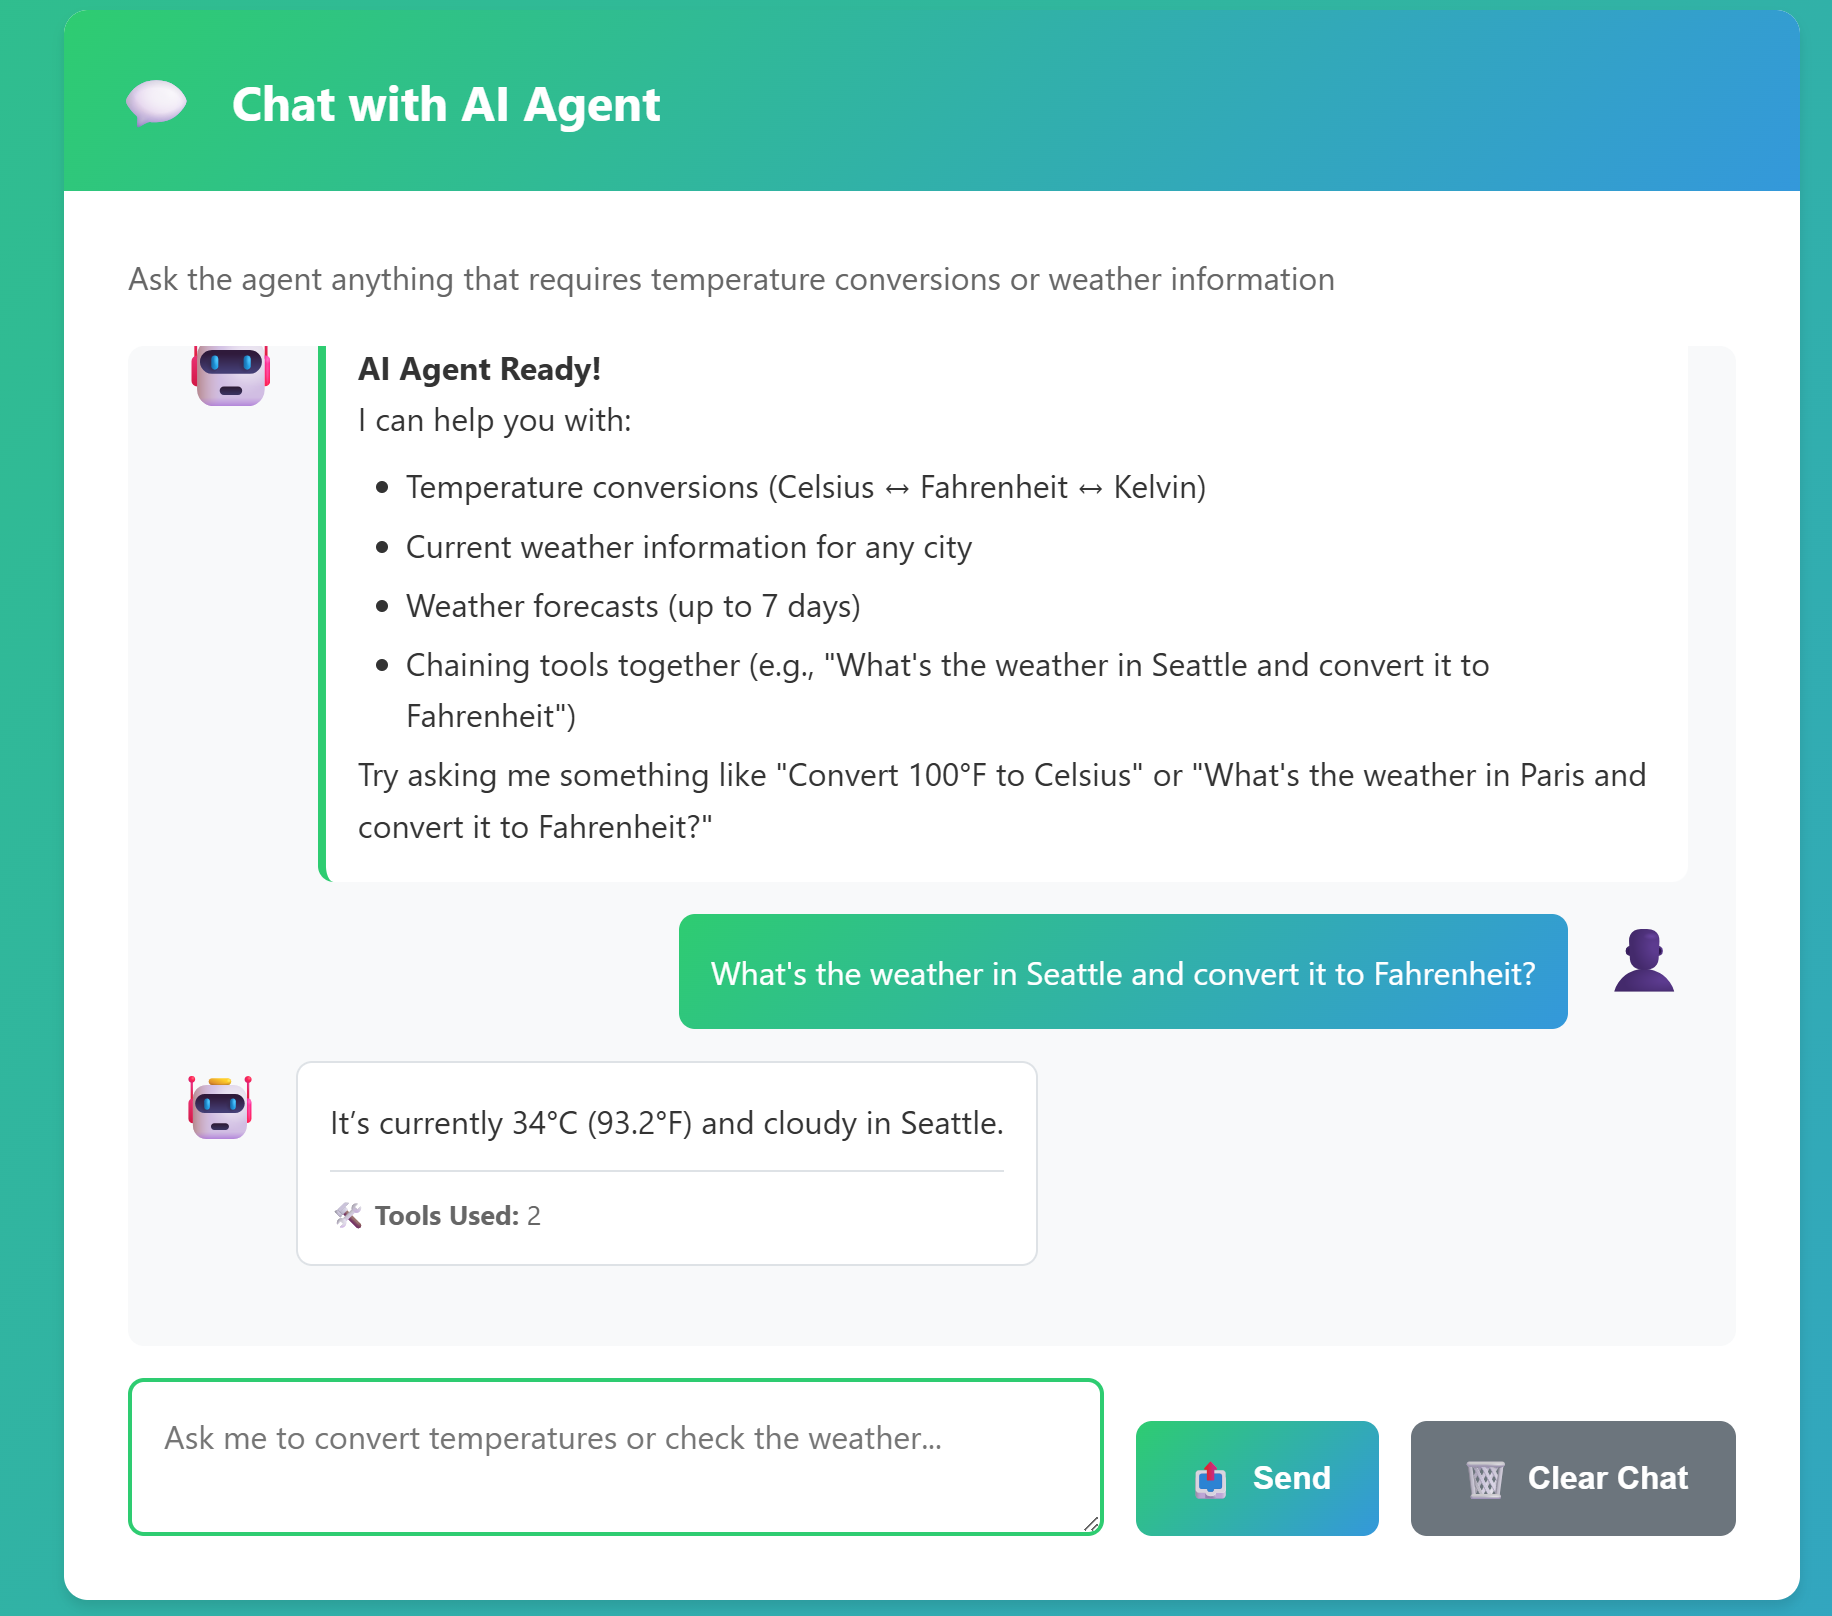
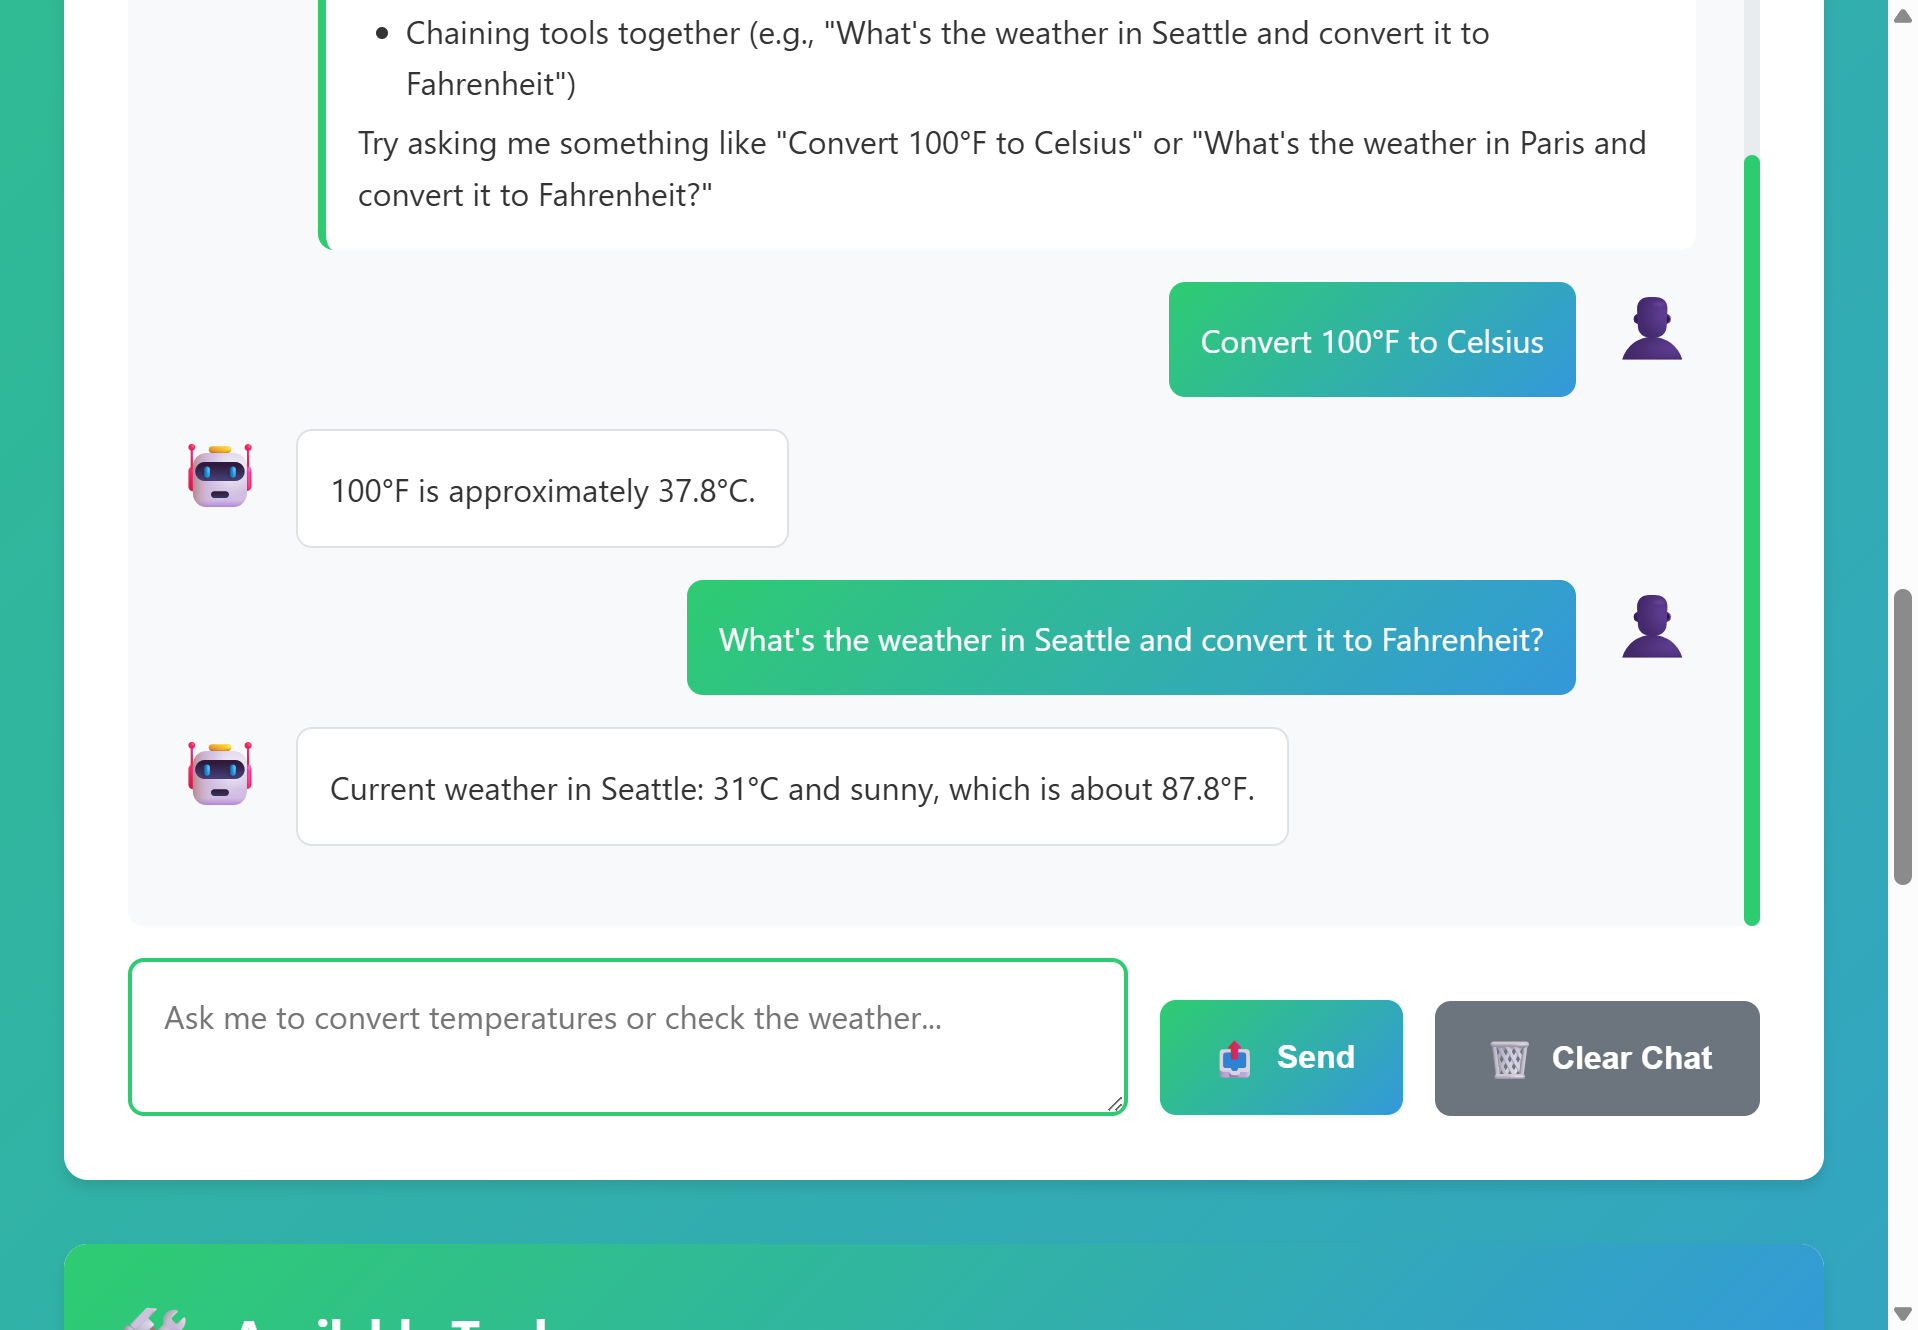
Update README.md to enhance clarity on multi-turn interactions and tool chaining; remove redundant images and descriptions. Update demo images for better representation.

diff --git a/04-tools/README.md b/04-tools/README.md
@@ -205,23 +205,13 @@ Start with a straightforward request: "Convert 100 degrees Fahrenheit to Celsius
 
 Now try something more complex: "What's the weather in Seattle and convert it to Fahrenheit?" Watch the agent work through this in steps. It first gets the weather (which returns Celsius), recognizes it needs to convert to Fahrenheit, calls the conversion tool, and combines both results into one response.
 
-<a href="images/tools-chaining-demo.png"><img src="images/tools-chaining-demo.png" alt="Tool Chaining in Action" width="800" style="border: 1px solid #ddd; box-shadow: 0 2px 8px rgba(0,0,0,0.1);"/></a>
-
-*Agent using multiple tools - weather lookup followed by temperature conversion*
-
 **See Conversation Flow**
 
-<a href="images/tools-chaining-demo.png"><img src="images/tools-chaining-demo.png" alt="Tool Chaining in Action" width="800" style="border: 1px solid #ddd; box-shadow: 0 2px 8px rgba(0,0,0,0.1);"/></a>
-
-*Agent using multiple tools - weather lookup followed by temperature conversion*
-
-**Observe the Reasoning**
-
-The interface shows you which tools were called. This visibility into the agent's decision-making helps you understand how it breaks down complex requests into tool executions.
+The chat interface maintains conversation history, allowing you to have multi-turn interactions. You can see all previous queries and responses, making it easy to track the conversation and understand how the agent builds context over multiple exchanges.
 
 <a href="images/tools-conversation-demo.png"><img src="images/tools-conversation-demo.png" alt="Conversation with Multiple Tool Calls" width="800" style="border: 1px solid #ddd; box-shadow: 0 2px 8px rgba(0,0,0,0.1);"/></a>
 
-*Multi-turn conversation showing both single tool usage and tool chaining*
+*Multi-turn conversation showing simple conversions, weather lookups, and tool chaining*
 
 **Experiment with Different Requests**
 
